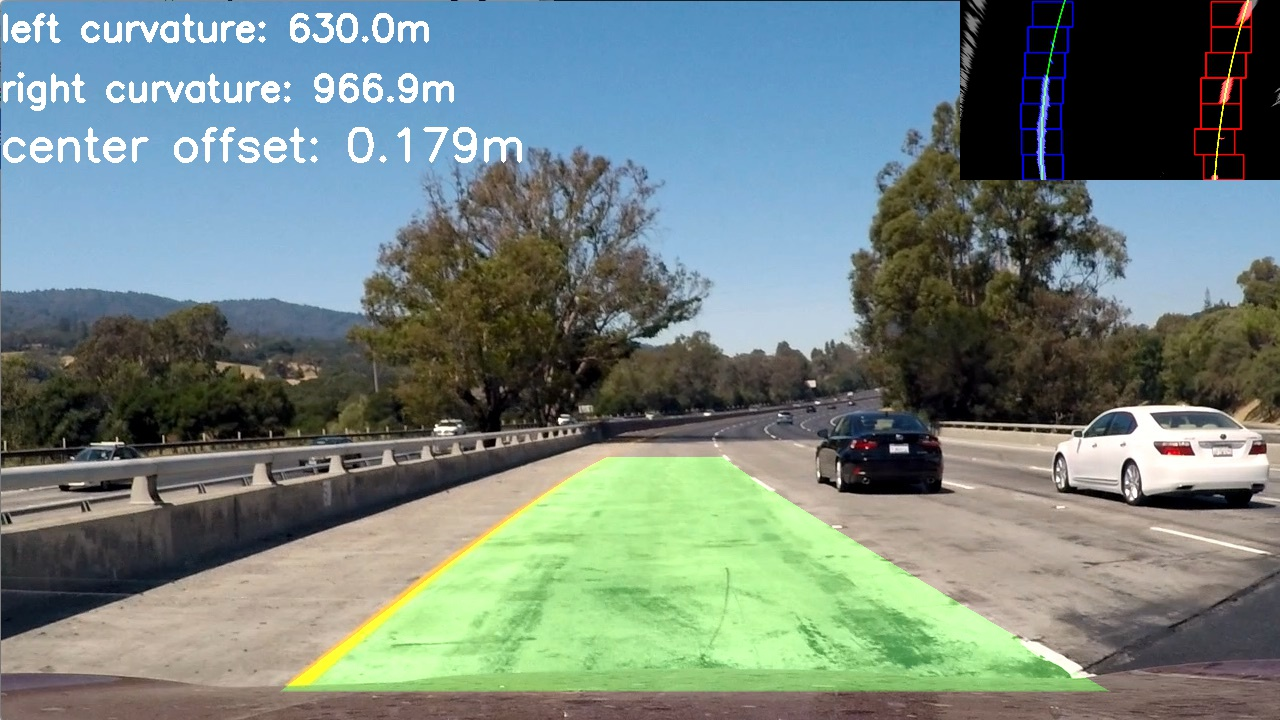
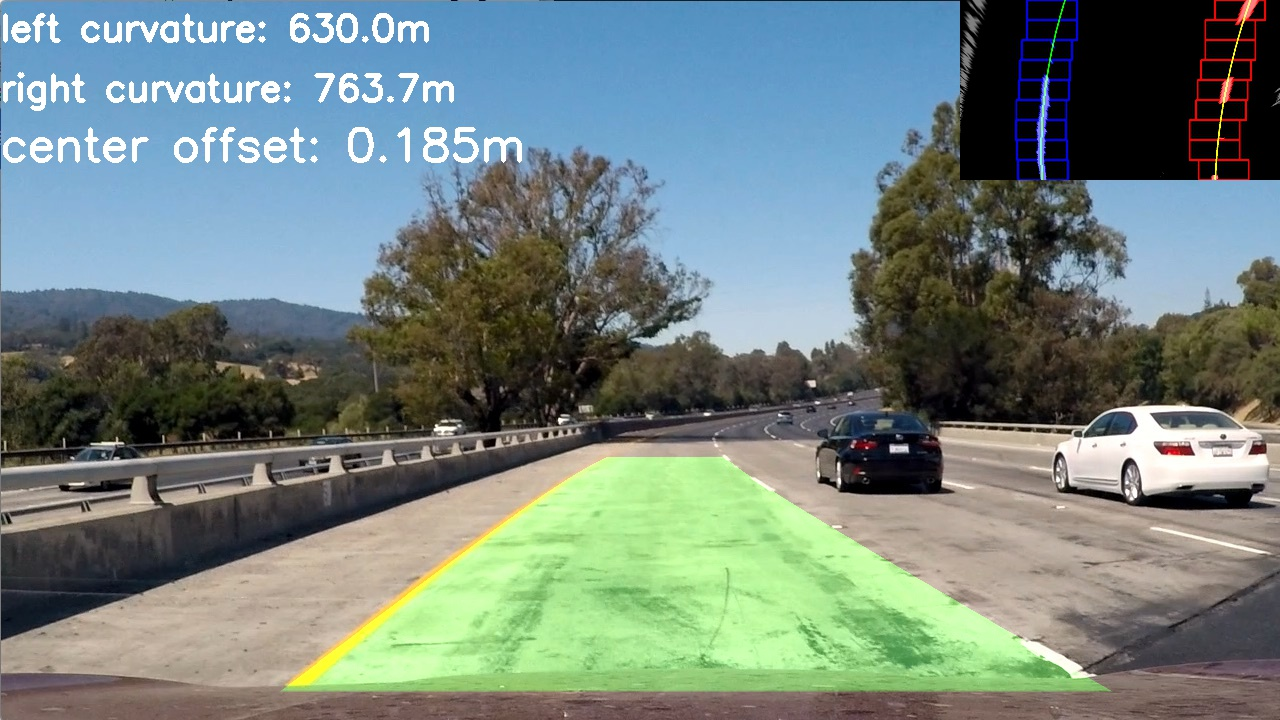
Small fixes on line detector

diff --git a/lanelines/detector.py b/lanelines/detector.py
@@ -42,11 +42,11 @@ class Detector:
         nonzerox = np.array(nonzero[1])
 
         if line.detected:
-            lane_inds, out_img = self.search_previous_line(image, line, margin=80, nonzerox=nonzerox,
+            lane_inds, out_img = self.search_previous_line(image, line, margin=100, nonzerox=nonzerox,
                                                            nonzeroy=nonzeroy, draw_window=draw_window)
         else:
-            lane_inds, out_img = self.sliding_window(image, x, margin=80, min_pixels=50, nonzerox=nonzerox,
-                                                     nonzeroy=nonzeroy, nwindows=7, draw_window=draw_window)
+            lane_inds, out_img = self.sliding_window(image, x, margin=100, min_pixels=50, nonzerox=nonzerox,
+                                                     nonzeroy=nonzeroy, nwindows=9, draw_window=draw_window)
 
         if lane_inds.shape[0] > 0:
             out_img[nonzeroy[lane_inds], nonzerox[lane_inds]] = 255

diff --git a/lanelines/line.py b/lanelines/line.py
@@ -22,6 +22,8 @@ class Line:
 
     def fit(self, lanex, laney, image):
         """Fit a line given valid pixels"""
+        if laney.shape[0] == 0 or lanex.shape[0] == 0:
+            return
         self.image = image
         self.detected = True
         self.current_fit = np.polyfit(laney, lanex, 2)
